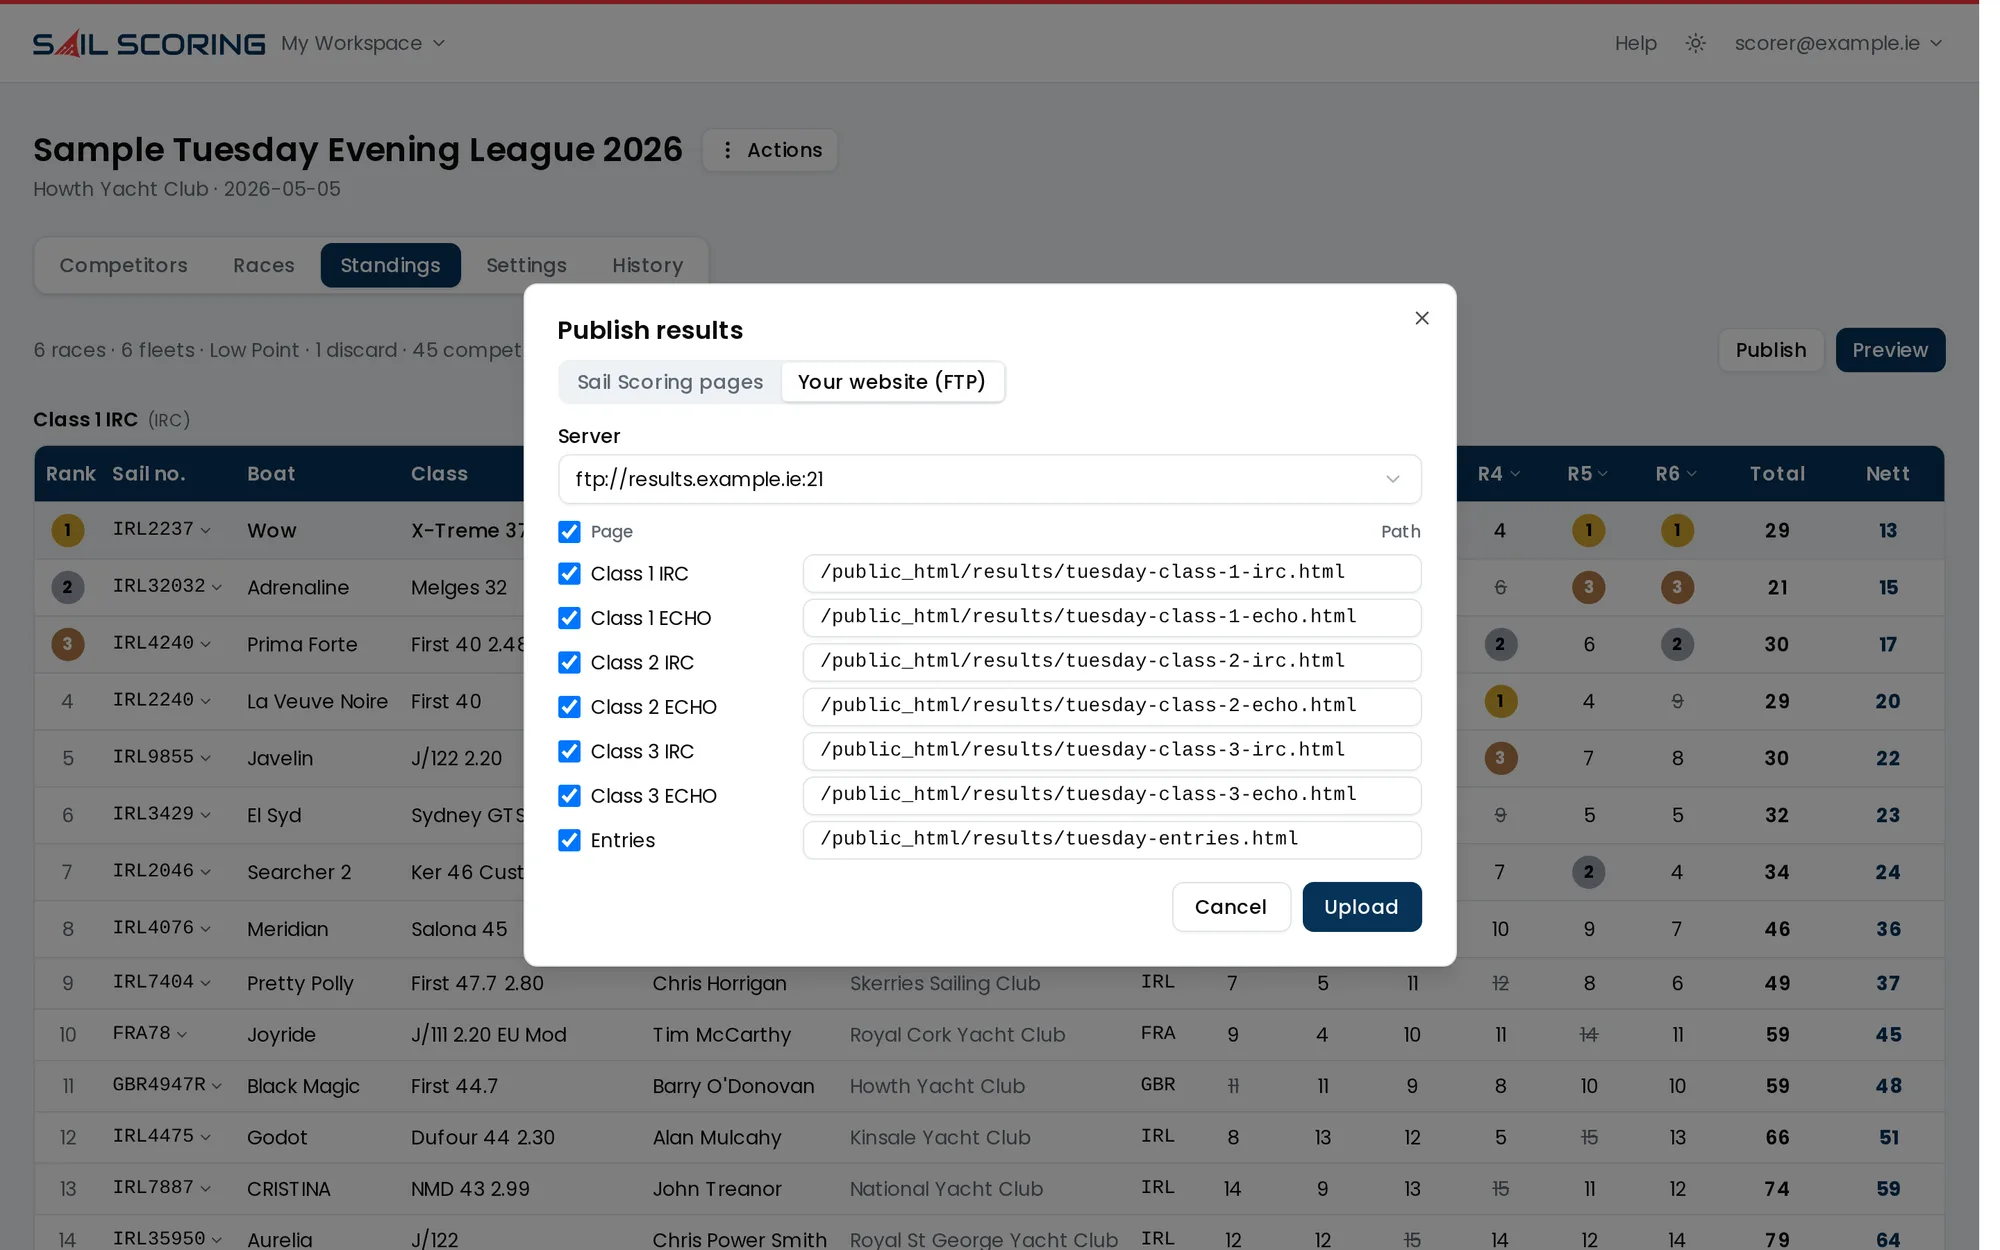
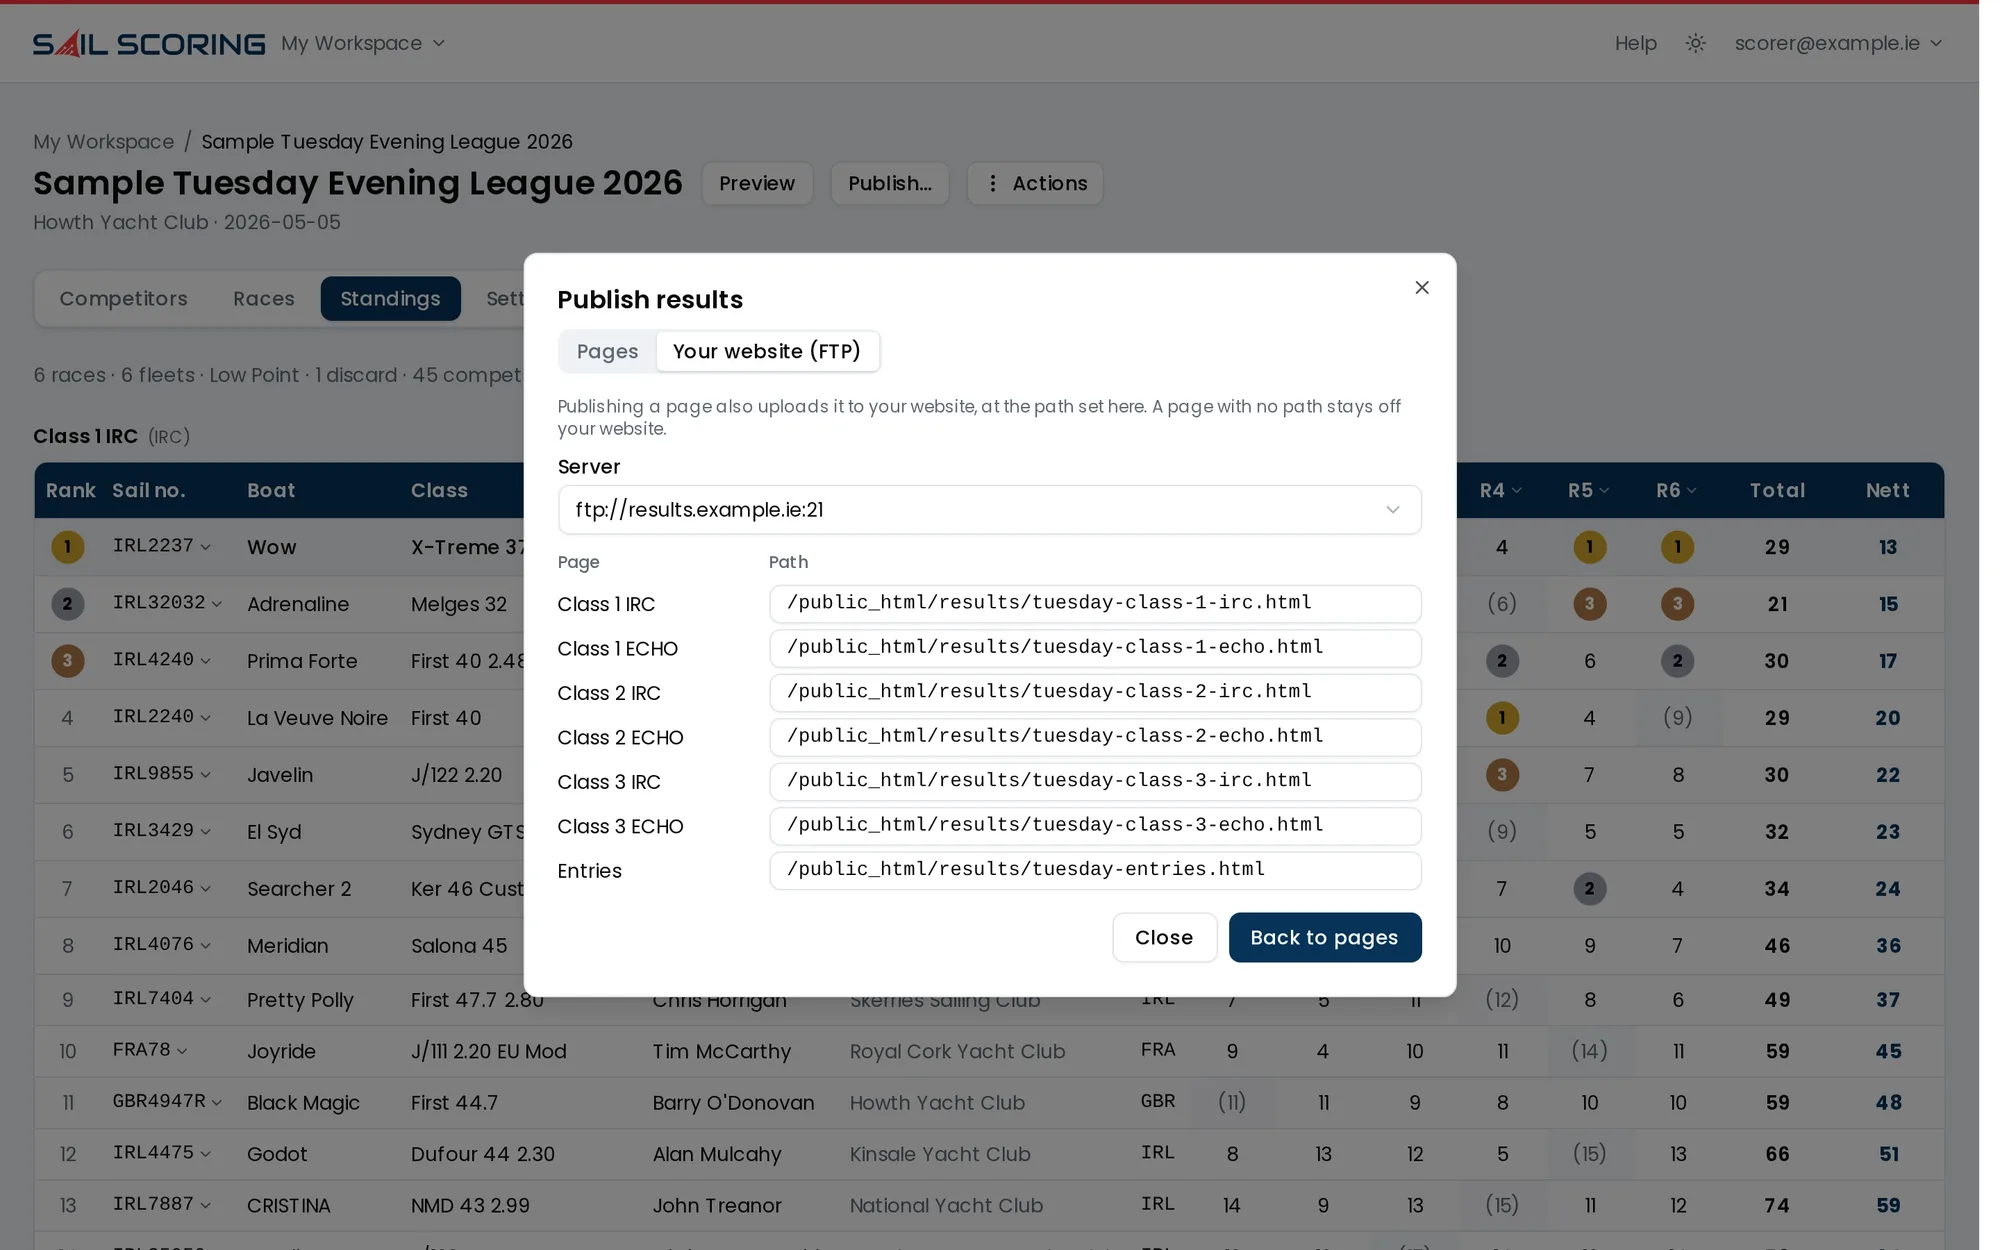
Features: FTP upload rides along with publishing
Publishing a page now also puts it on the club's own site, at a path set
once per page, rather than FTP being an alternative destination. New copy
and a recaptured shot of the Publish dialog's FTP tab.

diff --git a/app/features/page.tsx b/app/features/page.tsx
@@ -584,12 +584,12 @@ const groups: Group[] = [
       },
       {
         id: "ftp-upload",
-        title: "Or straight onto the club's own website",
-        body: "Already have a results page on your club's site? Publish to it instead. The same dialog uploads over FTP or FTPS, with a remote path per page — each class, each extra page, the entry list — so results land exactly where your members already look for them, under your own domain, in the file names your site already uses. Tick the pages you want to send; the rest stay as they are.",
+        title: "And onto the club's own website",
+        body: "Already have a results page on your club's site? Every page you publish can land there too, over FTP or FTPS. Give each page its remote path once — each class, each extra page, the entry list — and every publish after that puts results exactly where your members already look for them, under your own domain, in the file names your site already uses. Your site and Sail Scoring always carry the same results.",
         note: ON_REQUEST_NOTE,
         shot: {
           src: "/screenshots/features/ftp-upload.webp",
-          alt: "The publish dialog uploading to a club's own web server, a path per page",
+          alt: "The publish dialog's website tab: a remote path on the club's web server for each page",
         },
       },
       {
